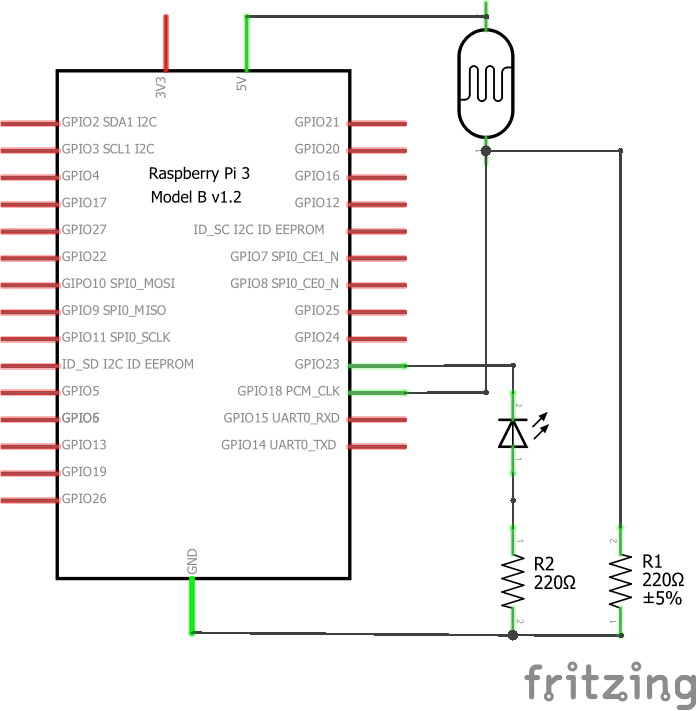
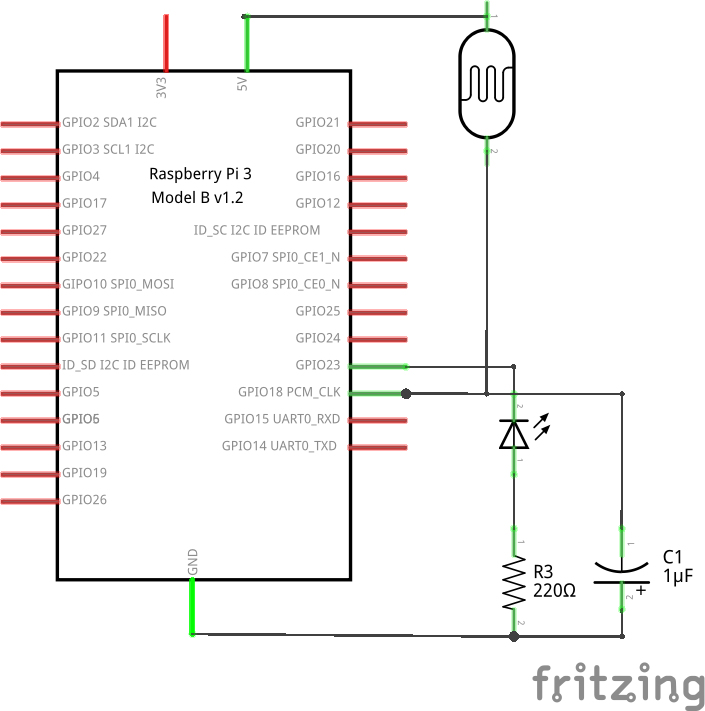
Update RPi analog read with use of capacitor

diff --git a/examples/3_read_potentiometer/code.py b/examples/3_read_potentiometer/code.py
@@ -1,24 +1,14 @@
-# Import the RPi.GPIO library and refer to it as GPIO
-import RPi.GPIO as GPIO
-
-# Use the BOARD mode for pin numbering
-GPIO.setmode(GPIO.BOARD)
+# Import the LightSensor module from the gpiozero library
+from gpiozero import LightSensor
 
 # Select pin 12 as your POTENTIOMETER pin
-POTENTIOMETER = 12
-
-# Set the LIGHT port as input
-GPIO.setup(POTENTIOMETER, GPIO.IN)
+POTENTIOMETER = LightSensor(18)
 
 try:
 
 	while True:
 		# Keep running the following until CTRL-C pressed
-		value = GPIO.input(POTENTIOMETER)
-		print(value)
+		print(POTENTIOMETER.value)
 
 except KeyboardInterrupt:
 	print("Bye bye")
-
-# Clean up on exit
-GPIO.cleanup()

diff --git a/examples/2_read_light/code.py b/examples/2_read_light/code.py
@@ -1,24 +1,14 @@
-# Import the RPi.GPIO library and refer to it as GPIO
-import RPi.GPIO as GPIO
-
-# Use the BOARD mode for pin numbering
-GPIO.setmode(GPIO.BOARD)
+# Import the LightSensor module from the gpiozero library
+from gpiozero import LightSensor
 
 # Select pin 12 as your LIGHT pin
-LIGHT = 12
-
-# Set the LIGHT port as input
-GPIO.setup(LIGHT, GPIO.IN)
+LIGHT = LightSensor(18)
 
 try:
 
 	while True:
 		# Keep running the following until CTRL-C pressed
-		value = GPIO.input(LIGHT)
-		print(value)
+		print(LIGHT.value)
 
 except KeyboardInterrupt:
 	print("Bye bye")
-
-# Clean up on exit
-GPIO.cleanup()

diff --git a/examples/4_build_nightlight/code.py b/examples/4_build_nightlight/code.py
@@ -1,16 +1,7 @@
-# Import the RPi.GPIO library and refer to it as GPIO
-import RPi.GPIO as GPIO
+from gpiozero import LED, LightSensor
 
-# Use the BOARD mode for pin numbering
-GPIO.setmode(GPIO.BOARD)
-
-# Define the ports for the light sensor and the LED
-LIGHT = 16
-LED = 12
-
-# Set the LIGHT port as input and the LED as output
-GPIO.setup(LIGHT, GPIO.IN)
-GPIO.setup(LED, GPIO.OUT)
+LIGHT = LightSensor(16)
+LED = LED(12)
 
 try:
 
@@ -21,6 +12,3 @@ try:
 
 except KeyboardInterrupt:
 	print("Bye bye")
-
-# Clean up on exit
-GPIO.cleanup()

diff --git a/examples/5_dim_nightlight/code.py b/examples/5_dim_nightlight/code.py
@@ -1,16 +1,7 @@
-# Import the RPi.GPIO library and refer to it as GPIO
-import RPi.GPIO as GPIO
+from gpiozero import LED, LightSensor
 
-# Use the BOARD mode for pin numbering
-GPIO.setmode(GPIO.BOARD)
-
-# Define the ports for the light sensor and the LED
-LIGHT = 16
-LED = 12
-
-# Set the LIGHT port as input and the LED as output
-GPIO.setup(LIGHT, GPIO.IN)
-GPIO.setup(LED, GPIO.OUT)
+LIGHT = LightSensor(16)
+LED = LED(12)
 
 try:
 
@@ -21,6 +12,3 @@ try:
 
 except KeyboardInterrupt:
 	print("Bye bye")
-
-# Clean up on exit
-GPIO.cleanup()

diff --git a/examples/3_read_potentiometer/README.md b/examples/3_read_potentiometer/README.md
@@ -17,47 +17,29 @@ Read the voltage from a potentiometer and report the value.
 ## Software (`code.py`)
 
 ``` python
-# Import the RPi.GPIO library and refer to it as GPIO
-import RPi.GPIO as GPIO
-
-# Use the BOARD mode for pin numbering
-GPIO.setmode(GPIO.BOARD)
+# Import the LightSensor module from the gpiozero library
+from gpiozero import LightSensor
 
 # Select pin 12 as your POTENTIOMETER pin
-POTENTIOMETER = 12
-
-# Set the LIGHT port as input
-GPIO.setup(POTENTIOMETER, GPIO.IN)
+POTENTIOMETER = LightSensor(18)
 
 try:
 
   while True:
     # Keep running the following until CTRL-C pressed
-    value = GPIO.input(POTENTIOMETER)
-    print(value)
+    print(POTENTIOMETER.value)
 
 except KeyboardInterrupt:
   print("Bye bye")
-
-# Clean up on exit
-GPIO.cleanup()
 ```
 
 ## Output
 
 ``` bash
 $ python code.py
-240
-248
-250
-256
-262
-264
-591
-591
-591
-591
 ```
+
+Now turn the know of the potentiometer. Report the numbers that you see, how do they differ from the light sensor of the previous example?
 
 ## Exploration
 

diff --git a/examples/4_build_nightlight/README.md b/examples/4_build_nightlight/README.md
@@ -18,32 +18,20 @@ Read the voltage from a potentiometer and report the value.
 ## Software (`code.py`)
 
 ``` python
-# Import the RPi.GPIO library and refer to it as GPIO
-import RPi.GPIO as GPIO
+from gpiozero import LED, LightSensor
 
-# Use the BOARD mode for pin numbering
-GPIO.setmode(GPIO.BOARD)
-
-# Define the ports for the light sensor and the LED
-LIGHT = 16
-LED = 12
-
-# Set the LIGHT port as input and the LED as output
-GPIO.setup(LIGHT, GPIO.IN)
-GPIO.setup(LED, GPIO.OUT)
+LIGHT = LightSensor(16)
+LED = LED(12)
 
 try:
 
-  while True:
-    # Keep running the following until CTRL-C pressed
-    # TODO: Add your code to create a night light here
-    pass
+	while True:
+		# Keep running the following until CTRL-C pressed
+		# TODO: Add your code to create a night light here
+		pass
 
 except KeyboardInterrupt:
-  print("Bye bye")
-
-# Clean up on exit
-GPIO.cleanup()
+	print("Bye bye")
 ```
 
 ## Output

diff --git a/examples/2_read_light/README.md b/examples/2_read_light/README.md
@@ -15,47 +15,29 @@ Read the voltage from a light sensor and report the value.
 ## Software (`code.py`)
 
 ``` python
-# Import the RPi.GPIO library and refer to it as GPIO
-import RPi.GPIO as GPIO
-
-# Use the BOARD mode for pin numbering
-GPIO.setmode(GPIO.BOARD)
+# Import the LightSensor module from the gpiozero library
+from gpiozero import LightSensor
 
 # Select pin 12 as your LIGHT pin
-LIGHT = 12
-
-# Set the LIGHT port as input
-GPIO.setup(LIGHT, GPIO.IN)
+LIGHT = LightSensor(18)
 
 try:
 
   while True:
     # Keep running the following until CTRL-C pressed
-    value = GPIO.input(LIGHT)
-    print(value)
+    print(LIGHT.value)
 
 except KeyboardInterrupt:
   print("Bye bye")
-
-# Clean up on exit
-GPIO.cleanup()
 ```
 
 ## Output
 
 ``` bash
 $ python code.py
-240
-248
-250
-256
-262
-264
-591
-592
-591
-591
 ```
+
+Report the numbers that you see, what do they mean?
 
 ## Exploration
 

diff --git a/README.md b/README.md
@@ -54,6 +54,10 @@ $ wget -O - https://raspi.tv/download/rpigpio.txt
 ## PWM
 https://sourceforge.net/p/raspberry-gpio-python/wiki/PWM/
 
+## gpiozero
+https://gpiozero.readthedocs.io/en/stable/
+https://projects.raspberrypi.org/en/projects/physical-computing
+
 ## Useful tools
 
 ### `gpio`
